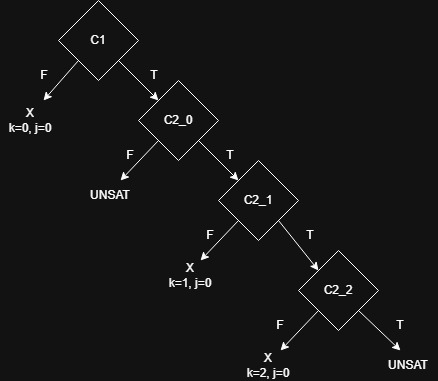
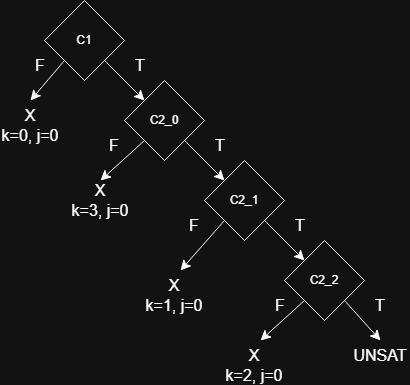
update

diff --git a/p2/ejercicios.md b/p2/ejercicios.md
@@ -86,15 +86,13 @@
 | 1         | k=0, j=0       | $\neg C1$                                  | $C1$                                  | k=1, j=0          |
 | 2         | k=1, j=0       | $C1 \land C2_0 \land \neg C2_1$            | $C1 \land C2_0 \land C2_1$            | k=2, j=0          |
 | 3         | k=2, j=0       | $C1 \land C2_0 \land C2_1 \land \neg C2_2$ | $C1 \land C2_0 \land C2_1 \land C2_2$ | UNSAT             |
-|           |                |                                            | $C1 \land \neg C2_0$                  | UNSAT             |
-|           |                |                                            | END                                   |                   |
+|           |                |                                            | $C1 \land \neg C2_0$                  | k=3, j=0          |
+| 4         | k=3, j=0       | $C1 \land \neg C2_0$                       | END                                   |                   |
 
 
 <p align="center">
   <img src="images/ej7.jpg" alt="Arbol de cómputo">
 </p>
-
-REVISAR
 
 ## Ejercicio 8
 | Iteración | Input Concreto | Condición de Ruta                          | Fórmula enviada al demostrador        | Resultado posible |
@@ -102,6 +100,7 @@ REVISAR
 | 1         | k=0, j=0       | $\neg C1$                                  | $C1$                                  | k=1, j=0          |
 | 2         | k=1, j=0       | $C1 \land C2_0 \land \neg C2_1$            | $C1 \land C2_0 \land C2_1$            | k=2, j=0          |
 | 3         | k=2, j=0       | $C1 \land C2_0 \land C2_1 \land \neg C2_2$ | $C1 \land C2_0 \land C2_1 \land C2_2$ | UNSAT             |
+|           |                |                                            | $C1 \land \neg C2_0$                  | UNSAT             |
 |           |                |                                            | END                                   |                   |
 <p align="center">
   <img src="images/ej8.jpg" alt="Arbol de cómputo">
